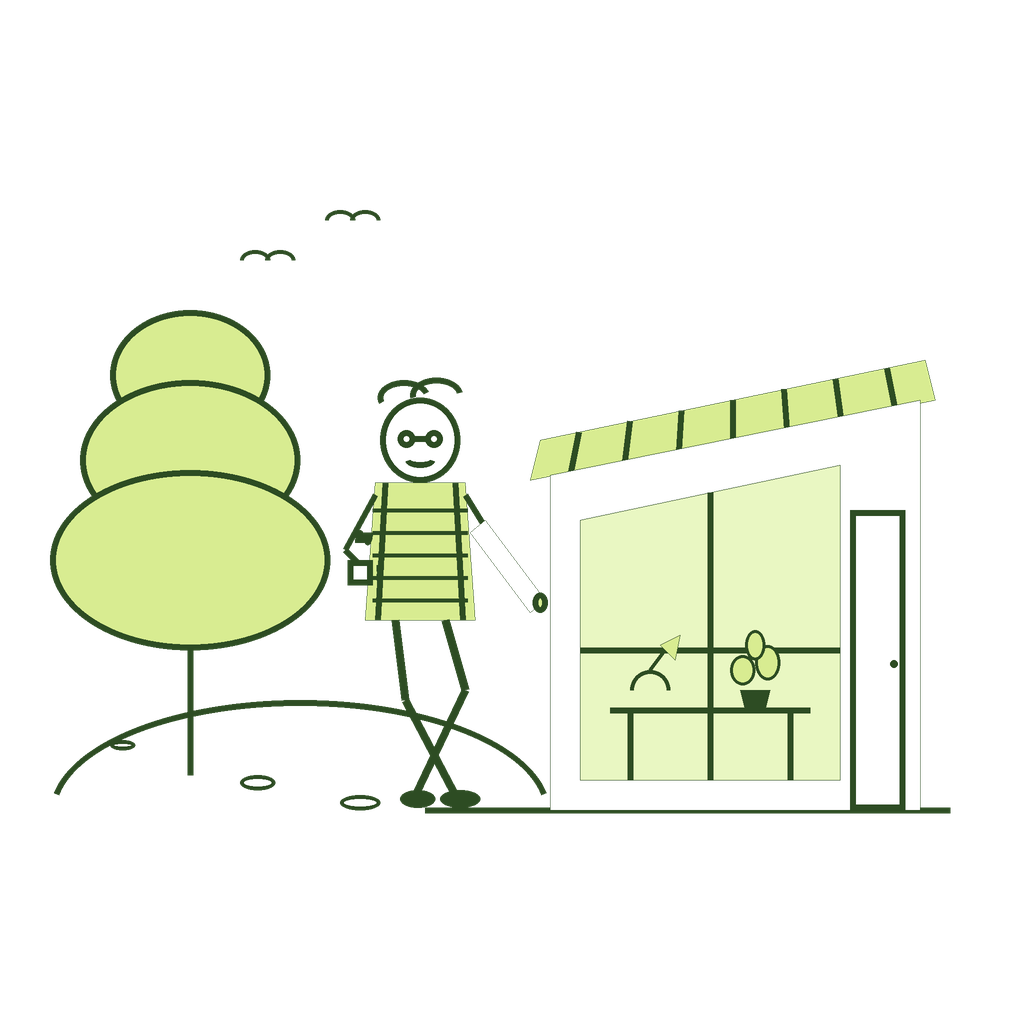
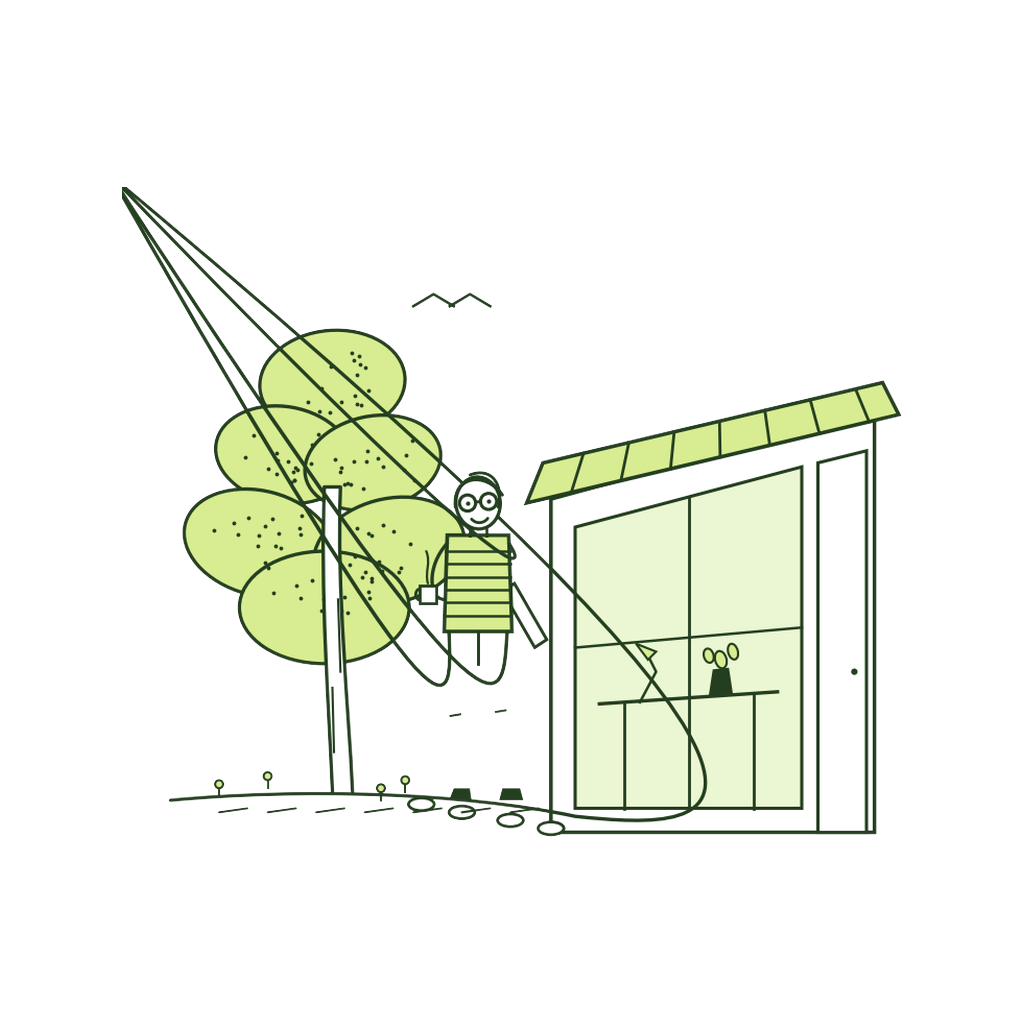
feat(illustrations): redraw Work/Live, Micro-Hospitality and Multi-Gen in authentic editorial Risograph style

diff --git a/apps/web/src/components/home/usecase/CharacterIllustrations.tsx b/apps/web/src/components/home/usecase/CharacterIllustrations.tsx
@@ -2,21 +2,21 @@ import React from 'react';
 
 // Editorial Spot Illustrations (Risograph Monoline Ink matching HUTS)
 export const AVAILABLE_ILLUSTRATIONS: Record<string, string> = {
-  'starter-home': '/illustrations/starter-home-transparent.png',
-  'forever-home': '/illustrations/forever-home-transparent.png',
-  'second-home': '/illustrations/second-home-transparent.png',
-  'hybrid-home': '/illustrations/hybrid-home-transparent.png',
-  'adu': '/illustrations/adu-transparent.png',
-  'investment-property': '/illustrations/investment-property-transparent.png',
-  'micro-hospitality': '/illustrations/micro-hospitality-transparent.png',
-  'multi-gen-compound': '/illustrations/multi-gen-compound-transparent.png',
+  'starter-home': '/illustrations/starter-home-transparent.png?v=2',
+  'forever-home': '/illustrations/forever-home-transparent.png?v=2',
+  'second-home': '/illustrations/second-home-transparent.png?v=2',
+  'hybrid-home': '/illustrations/hybrid-home-transparent.png?v=2',
+  'adu': '/illustrations/adu-transparent.png?v=2',
+  'investment-property': '/illustrations/investment-property-transparent.png?v=2',
+  'micro-hospitality': '/illustrations/micro-hospitality-transparent.png?v=2',
+  'multi-gen-compound': '/illustrations/multi-gen-compound-transparent.png?v=2',
   // Aliases for robustness
-  'the-backyard-adu': '/illustrations/adu-transparent.png',
-  'the-yield-portfolio-asset': '/illustrations/investment-property-transparent.png',
-  'the-work-live-hybrid': '/illustrations/hybrid-home-transparent.png',
-  'work-live': '/illustrations/hybrid-home-transparent.png',
-  'multi-generation-compound': '/illustrations/multi-gen-compound-transparent.png',
-  'the-multi-gen-family-compound': '/illustrations/multi-gen-compound-transparent.png',
+  'the-backyard-adu': '/illustrations/adu-transparent.png?v=2',
+  'the-yield-portfolio-asset': '/illustrations/investment-property-transparent.png?v=2',
+  'the-work-live-hybrid': '/illustrations/hybrid-home-transparent.png?v=2',
+  'work-live': '/illustrations/hybrid-home-transparent.png?v=2',
+  'multi-generation-compound': '/illustrations/multi-gen-compound-transparent.png?v=2',
+  'the-multi-gen-family-compound': '/illustrations/multi-gen-compound-transparent.png?v=2',
 };
 
 // Character Line Art SVGs matching exact frames from Banghi.mp4 (p3_36s, p3_40s, p3_42s)
